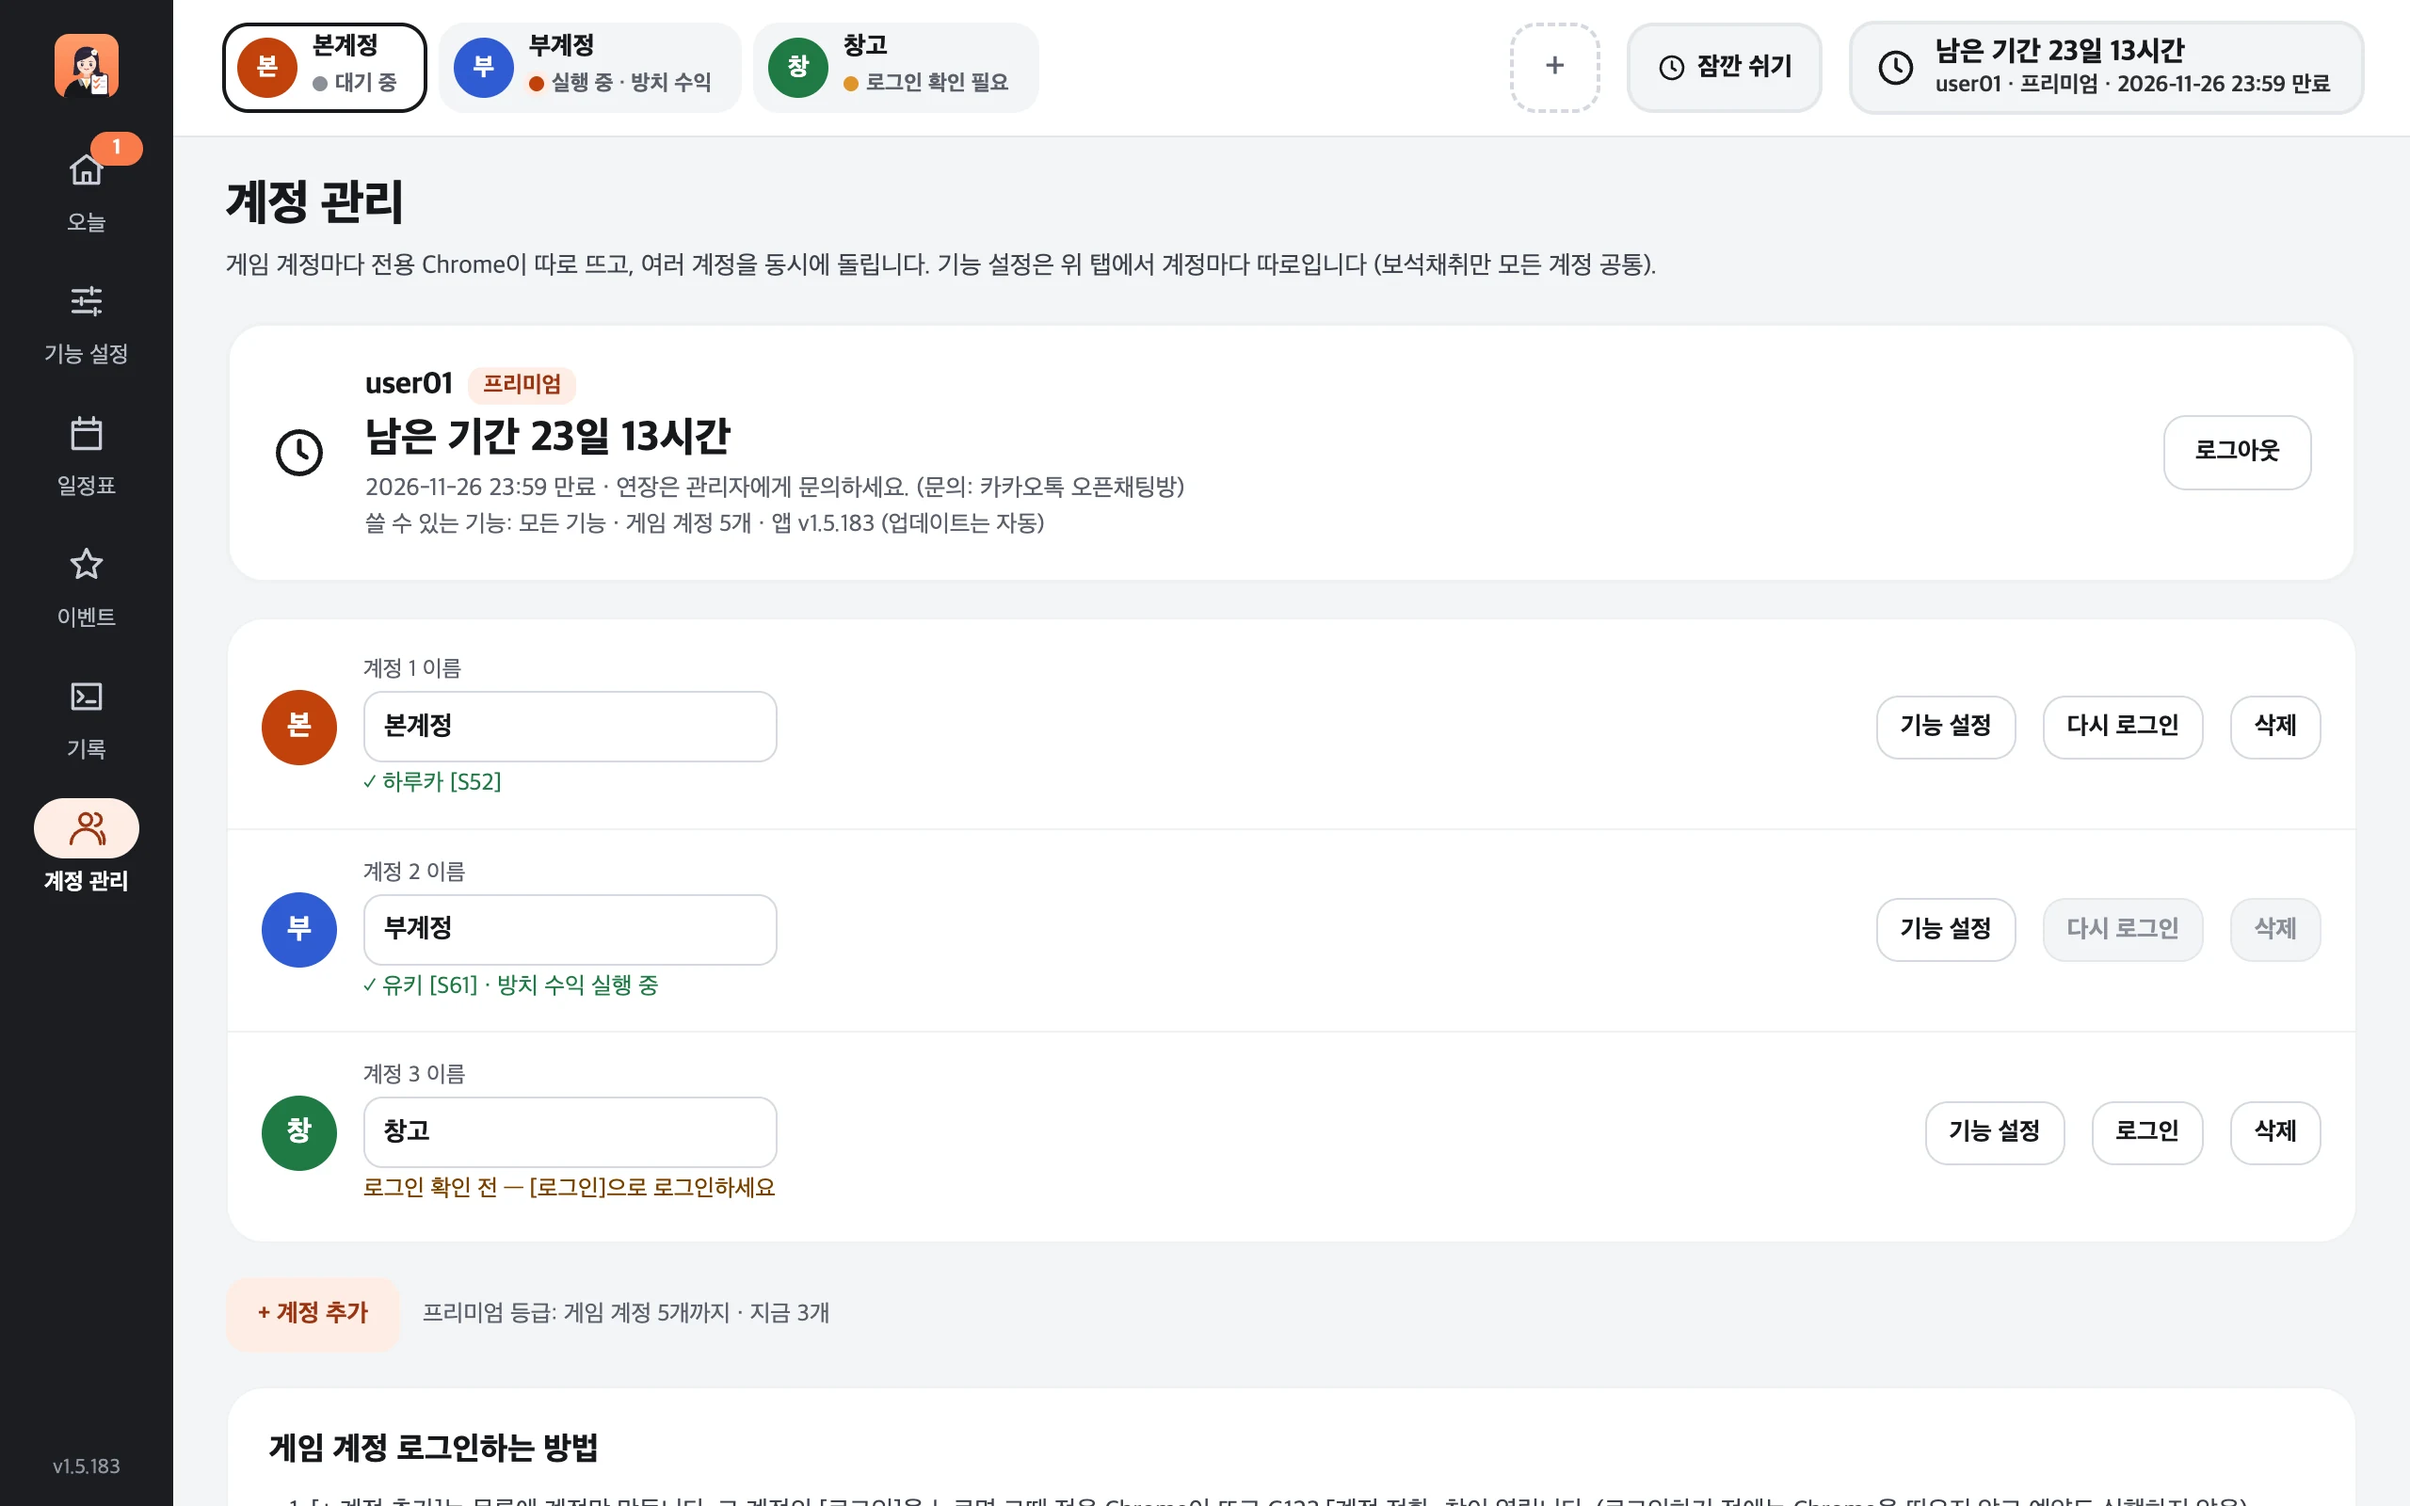
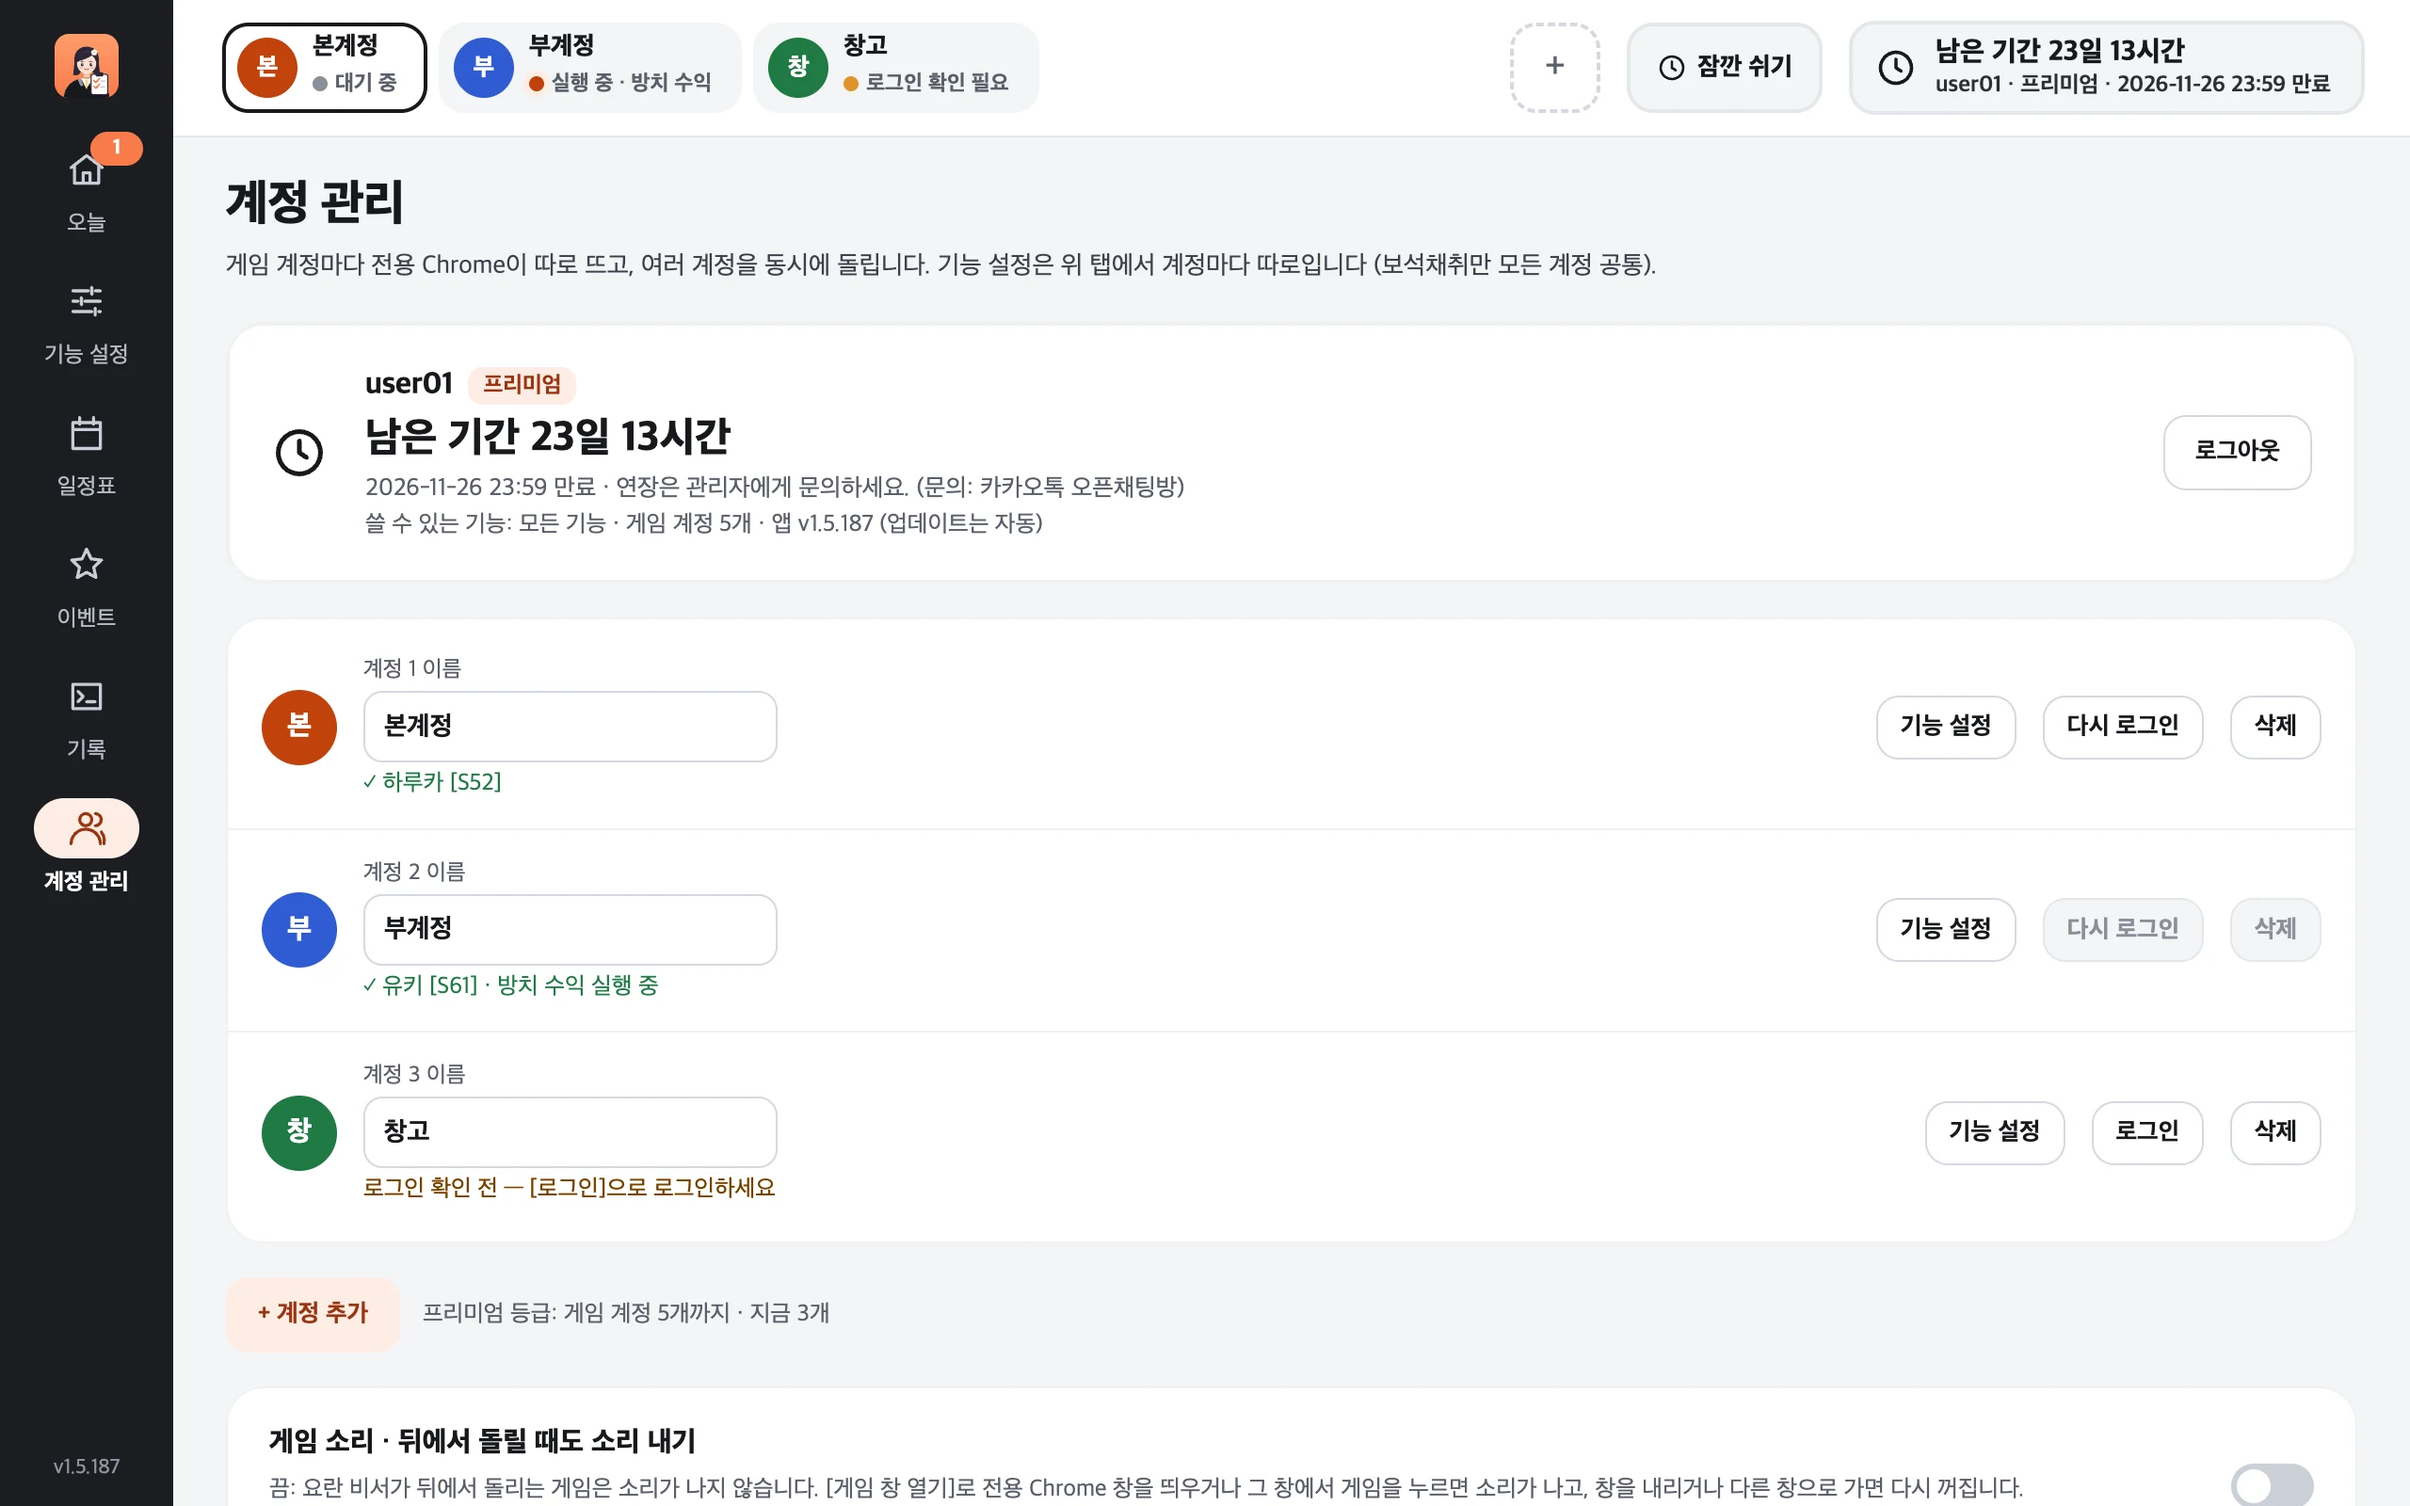
v1.5.187 홈페이지: 게임 소리(사용설명서·질문), 속성 시련 옮길 것 (README와 같게, 화면 이미지 다시 찍음)
Claude-Session: https://claude.ai/code/session_01KmZac8kzEr3Wgyv8DkKzJ9

Changed region(s): [[0.0938, 0.9375, 0.8438, 1.0], [0.9062, 0.9688, 0.9688, 1.0], [0.375, 0.3438, 0.4062, 0.375]]

diff --git a/docs/guide.html b/docs/guide.html
@@ -8,7 +8,7 @@
   <meta property="og:type" content="website">
   <meta property="og:title" content="사용설명서 · 요란 비서">
   <meta property="og:description" content="설치부터 게임 계정 연결, 화면 사용법, 문제 해결까지 — 화면과 함께">
-  <meta property="og:image" content="https://suhojang.github.io/ryoran-macro/img/og.png?v=ce2c728b">
+  <meta property="og:image" content="https://suhojang.github.io/ryoran-macro/img/og.png?v=9ae863a5">
   <meta name="theme-color" content="#16181D">
   <link rel="icon" href="img/icon.svg" type="image/svg+xml">
   <link rel="apple-touch-icon" href="img/apple-touch-icon.png">
@@ -145,6 +145,7 @@
         <li><b>평소 쓰던 방법(Google·Apple·Passkey·전화번호)으로 로그인합니다.</b><span class="muted">그 계정으로 바뀝니다.</span></li>
         <li><b>계정 관리에 ✓ 캐릭터 이름 [서버]가 보이면 준비 완료입니다.</b><span class="muted">로그인은 다음에도 유지됩니다.</span></li>
       </ol>
+      <div class="note"><b>게임 소리</b> 계정 관리의 「게임 소리 · 뒤에서 돌릴 때도 소리 내기」(모든 계정 공통, 기본 끔 · v1.5.187부터). 끄면 요란 비서가 뒤에서 돌리는 게임은 소리가 나지 않습니다. 전용 Chrome 창을 <kbd>게임 창 열기</kbd>로 띄우거나 그 창에서 게임을 누르면 소리가 나고, 창을 내리거나 다른 창으로 가면 다시 꺼집니다(휴대폰은 게임 화면을 띄우면 소리, 홈·다른 앱으로 가면 꺼짐). 켜면 예전과 같고, 게임 안의 소리 설정은 바꾸지 않습니다.</div>
       <div class="note"><b>처음엔 모두 꺼짐</b> 처음 설치하면 모든 기능이 꺼져 있습니다(v1.5.95부터, 새로 추가한 계정도 같음, 이벤트 기능 「지혜 대결 퍼즐 대전」만 예외로 켜짐). 기능 설정에서 기능마다 하는 일을 보고 쓸 기능을 켜세요. 이미 쓰던 설정은 업데이트해도 그대로입니다.</div>
       <div class="note warn"><b>주의</b> 새로 추가한 계정(처음 설치한 뒤의 첫 계정 포함)은 위쪽 탭에 「로그인 전」이 표시되고, <kbd>로그인</kbd>으로 연동할 때까지 예약도 실행하지 않습니다(연동되면 그때부터 예약대로). 로그인되지 않은 계정은 「로그인 확인 필요」가 표시되고, 실행해도 바로 멈춥니다. 두 계정에 같은 G123 계정으로 로그인하면 ⚠ 경고가 뜨고 둘을 동시에 실행하지 않습니다(같은 계정에 두 창이 접속하면 서로 끊김). 한쪽이 실행 중일 때 다른 쪽 예약 시각이 되면 끝나길 기다렸다가 바로 이어서 합니다(v1.5.115까지는 그 예약을 앱을 다시 켤 때까지 하지 않던 문제를 v1.5.116에서 고침).<br>계정마다 <b>연결된 캐릭터</b>(처음 연동을 확인한 캐릭터)를 기억합니다. 게임은 그 G123 로그인으로 마지막에 들어간 서버로 먼저 열려서, 한 G123 로그인의 두 서버 캐릭터를 두 계정으로 쓰면 다른 쪽 캐릭터로 열릴 수 있습니다. 게임이 <b>같은 G123 계정의 다른 서버 캐릭터</b>로 열려 있으면 기능을 시작할 때 게임 안 「서버 변경」과 같은 순서로 등록된 서버에 다시 들어가 예약대로 합니다(v1.5.159부터, 기록에 한 줄). 휴대폰에서 그 게임 화면을 보고 있는 동안에는 바꾸지 않고 그 예약을 미루며 알림을 한 번 띄웁니다(게임 화면을 닫으면 다음 실행에서 바꿔 들어감). 바꿔 들어가다 실패하면 로그인 화면이 겹친 채 남지 않도록 게임을 다시 불러옵니다. 바꾸는 사이 게임이 스스로 다시 접속해 원래 서버로 다시 로그인되는 일이 없게 그 재접속을 멈추고, 그래도 다른 서버로 들어가 버리면 처음부터 한 번 더 바꿔 들어갑니다(v1.5.180부터). 게임 창을 준비할 때(시작할 때와 다시 불러올 때마다)는 G123 화면의 캐릭터뿐 아니라 게임 안에서 들어가 있는 서버도 한 번 더 보고, 다르면 일을 시작하기 전에 같은 방법으로 바꿔 들어가거나 미룹니다(v1.5.170부터, 전에는 연결이 끊겨 다시 열린 직후 G123 화면이 바뀌기 전 값을 읽어 다른 서버 캐릭터에서 한정 보상이 돌 수 있었음). 다시 불러온 직후 게임이 아직 서버를 모르면 알 때까지 기다리고, 메인 화면이 뜬 뒤에도 게임 안 서버를 한 번 더 봅니다(v1.5.178부터). 바꿔 들어가지 못하면 그때 게임 안 상태(서버·로그인 단계·보이는 화면)를 기록에 함께 남깁니다. 게임이 <b>다른 G123 계정</b>으로 열려 있으면 그 캐릭터에 재화를 쓰지 않도록 그 계정의 예약을 하지 않고, 기록에 ⚠ 한 줄과 알림을 한 번 남깁니다(「시작하지 않음」 줄은 기능마다 한 번만). 게임에서 원래 캐릭터로 바꾸면 5분 안에 알아채고 못 한 예약을 이어서 합니다. 지금 캐릭터를 이 계정에 쓰려면 계정 관리에서 <kbd>다시 로그인</kbd>을 누르세요.</div>
     </section>

diff --git a/docs/index.html b/docs/index.html
@@ -9,7 +9,7 @@
   <meta property="og:type" content="website">
   <meta property="og:title" content="요란 비서 — 백화요란 숙제 도우미">
   <meta property="og:description" content="켜 두면 예약대로 — 일일 보상·보석채취·주기 예약·경기 자동 진행. 기능 안내와 사용설명서">
-  <meta property="og:image" content="https://suhojang.github.io/ryoran-macro/img/og.png?v=ce2c728b">
+  <meta property="og:image" content="https://suhojang.github.io/ryoran-macro/img/og.png?v=9ae863a5">
   <meta property="og:url" content="https://suhojang.github.io/ryoran-macro/">
   <meta name="theme-color" content="#16181D">
   <link rel="icon" href="img/icon.svg" type="image/svg+xml">
@@ -226,6 +226,7 @@
       <details class="faq"><summary>휴대폰으로 같은 계정에 접속해도 되나요?</summary><div><p>다른 곳에서 같은 게임 계정으로 접속하면 요란 비서 쪽 게임이 끊깁니다. 요란 비서는 바로 다시 접속하지 않고 30분을 기다렸다가 다시 접속합니다(경기 중에는 바로 다시 접속). 다시 접속한 뒤 곧 또 끊기면 그때부터 다시 30분을 기다립니다. 더 일찍 이어 가려면 전용 Chrome 게임 창에서 [확인]을 누르세요.</p></div></details>
       <details class="faq"><summary>업데이트는 어떻게 하나요?</summary><div><p>앱이 1시간마다 새 버전을 확인해 스스로 업데이트합니다. 실행 중인 기능이 끝난 뒤 잠깐 꺼졌다 다시 켜지고, 경기 15분 전부터 경기가 끝날 때까지는 업데이트하지 않습니다. 설정과 게임 로그인은 그대로 유지됩니다.</p></div></details>
       <details class="faq"><summary>내 기록(로그)이 서버로 가나요?</summary><div><p>네. v1.5.145부터 요란 비서가 문제를 빨리 찾아 고치기 위해 매일 전날 앱 로그를 서버로 보냅니다. 보내기 전에 이메일·로그인 아이디·계정 이름·게임 캐릭터 이름·G123 ID·컴퓨터 이름 같은 개인 정보를 기기에서 지웁니다. 서버에는 7일 동안만 남고 관리자만 볼 수 있습니다(<a href="guide.html#log-upload">자세히</a>).</p></div></details>
+      <details class="faq"><summary>보이지 않는 게임에서 소리가 나요</summary><div><p>v1.5.187부터 요란 비서가 뒤에서 돌리는 게임은 소리가 나지 않습니다(계정 관리의 「게임 소리」, 기본 끔). 게임 창을 띄우고 게임을 누르면 소리가 나고, 다른 창으로 가거나 내리면 다시 꺼집니다. 뒤에서 돌 때도 소리를 들으려면 「게임 소리」를 켜세요. 게임 안의 소리 설정은 바꾸지 않습니다.</p></div></details>
       <details class="faq"><summary>게임 창을 봐도 되나요?</summary><div><p>전용 Chrome 창은 다른 창에 가려져 있어도 동작하고, 최소화되어 있으면 자동으로 되돌립니다. 요란 비서가 도는 동안 그 창을 직접 누르면 요란 비서 조작과 겹칠 수 있으니 지켜보기만 해 주세요.</p></div></details>
     </div>
   </section>

diff --git a/docs/features.html b/docs/features.html
@@ -8,7 +8,7 @@
   <meta property="og:type" content="website">
   <meta property="og:title" content="기능 안내 · 요란 비서">
   <meta property="og:description" content="기능마다 무엇을 하고 어떻게 설정하는지 — 설정 화면과 함께">
-  <meta property="og:image" content="https://suhojang.github.io/ryoran-macro/img/og.png?v=ce2c728b">
+  <meta property="og:image" content="https://suhojang.github.io/ryoran-macro/img/og.png?v=9ae863a5">
   <meta name="theme-color" content="#16181D">
   <link rel="icon" href="img/icon.svg" type="image/svg+xml">
   <link rel="apple-touch-icon" href="img/apple-touch-icon.png">
@@ -98,6 +98,8 @@
           <p>속성(도·기·체·정)마다 그 속성 검희 5명으로 깬 층 다음 층부터 <b>질 때까지</b> 도전합니다.</p>
           <ul>
             <li>그 속성 검희를 스토리 편성에 <b>[계승] 교체</b>로 넣어 스토리 편성의 레벨·장비를 잠시 이어받게 한 뒤 싸웁니다.</li>
+            <li>그 자리 원래 검희의 <b>법진·장식품·곡옥·식신</b>도 들어간 검희에게 잠시 끼웠다가, 다음 속성 전에 원래 검희에게 되돌립니다(v1.5.187부터). 「옮길 것」에서 계승·법진·장식품·곡옥·식신을 하나씩 끌 수 있고, 처음에는 모두 켜져 있습니다. 법진·장식품·곡옥·식신을 모두 끄면 예전과 같습니다.</li>
+            <li>되돌린 뒤 시작 전 값과 비교해 다르면 다시 되돌리고, 그래도 다르면 기록에 ⚠와 알림을 남겨 다음 실행 때 가장 먼저 되돌립니다. 게임이 거절한 것(장식품 링크 등)·들어간 검희에게 없는 곡옥 칸은 그것만 옮기지 않습니다.</li>
             <li>끝나면 스토리 편성을 <b>원래대로 되돌립니다</b>. 도중에 멈췄거나 컴퓨터가 꺼졌으면 다음 실행 때 가장 먼저 되돌립니다.</li>
             <li>그다음 무료 소탕권·특권 보상, 속성마다 무료 소탕, 남은 소탕권은 가장 높은 층까지 깬 속성의 최고층 소탕에 씁니다.</li>
           </ul>

diff --git a/docs/android.html b/docs/android.html
@@ -8,7 +8,7 @@
   <meta property="og:type" content="website">
   <meta property="og:title" content="모바일 설명서 · 요란 비서">
   <meta property="og:description" content="휴대폰 하나로 요란 비서 쓰기 — 설치부터 알림창 사용법까지 화면과 함께">
-  <meta property="og:image" content="https://suhojang.github.io/ryoran-macro/img/og.png?v=ce2c728b">
+  <meta property="og:image" content="https://suhojang.github.io/ryoran-macro/img/og.png?v=9ae863a5">
   <meta name="theme-color" content="#16181D">
   <link rel="icon" href="img/icon.svg" type="image/svg+xml">
   <link rel="apple-touch-icon" href="img/apple-touch-icon.png">
